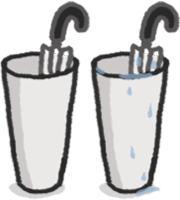
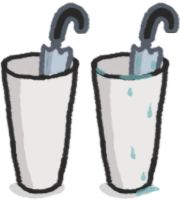
ㅇㅇ
우산색 변경
대화속도 수정
도움말 수정
별 수정
외출 뒤로가기

diff --git a/_Script/TalkEvtOut.cs b/_Script/TalkEvtOut.cs
@@ -78,6 +78,7 @@ public class TalkEvtOut : MonoBehaviour
     // 종료 함수
     void Update()
     {
+        Debug.Log((PlayerPrefs.GetInt("frontpark", 0)));
         //클립초기화
         if(PlayerPrefs.GetInt("frontpark", 0) == 1)
         {
@@ -95,7 +96,19 @@ public class TalkEvtOut : MonoBehaviour
                 exit_int = 1;
                 exitTalkBalln.SetActive(true); //대화창 새로만들기
                 closeTB_exit.SetActive(true);
-                exitText.text = "집으로 돌아갈까..\n(종료는 집에서 가능)";
+
+                if (PlayerPrefs.GetInt("frontpark", 0) == 99)
+                {
+                    exitText.text = "집으로 돌아갈까..\n(종료는 집에서 가능)";
+                }
+                else if (PlayerPrefs.GetInt("frontpark", 0) == 2)
+                {
+                    talkCursor.SetActive(false);
+                   // exitTalkBalln.GetComponent<Image>().sprite = ballnSpr[1];
+                    exitText.text = "(가려면 집으로 돌아가야 할 거 같다.)";
+                }
+
+
             }
             else
             {
@@ -110,7 +123,16 @@ public class TalkEvtOut : MonoBehaviour
         }
         if (cnt_exit == 150)
         {
-            exitText.text = "..음";
+            if (PlayerPrefs.GetInt("frontpark", 0) == 99)
+            {
+                exitText.text = "..음";
+            }
+            else if (PlayerPrefs.GetInt("frontpark", 0) == 2)
+            {
+                talkCursor.SetActive(false);
+                // exitTalkBalln.GetComponent<Image>().sprite = ballnSpr[1];
+                exitText.text = "(..흠)";
+            }
         }
         else if (cnt_exit == 250)
         {

diff --git a/_Script/MainBtnEvt.cs b/_Script/MainBtnEvt.cs
@@ -21,7 +21,7 @@ public class MainBtnEvt : CavasData
     public GameObject GM, GM2,GMtag;
 
     //문장속도
-    float speedF = 0.06f;
+    float speedF = 0.05f;
     public Text tspeed_txt;
     public GameObject speed_obj, speed_toast;
     public GameObject [] speedBtn;
@@ -127,7 +127,7 @@ public class MainBtnEvt : CavasData
 
     // Use this for initialization
     void Start () {
-        speedF = PlayerPrefs.GetFloat("talkspeed", 0.06f);
+        speedF = PlayerPrefs.GetFloat("talkspeed", 0.05f);
         speedBtnCKFunction(PlayerPrefs.GetInt("speedTalkCheck", 0));
 
         if (GM == null)
@@ -462,13 +462,13 @@ public class MainBtnEvt : CavasData
 
     public void TalkSpeedFast()
     {
-        speedF = 0.03f;
+        speedF = 0.02f;
         StartCoroutine("closeToast");
     }
 
     public void TalkSpeedNor()
     {
-        speedF = 0.06f;
+        speedF = 0.05f;
         StartCoroutine("closeToast");
     }
 
@@ -491,12 +491,12 @@ public class MainBtnEvt : CavasData
         PlayerPrefs.SetFloat("talkspeed", speedF);
         PlayerPrefs.Save();
 
-        if (speedF == 0.03f)
+        if (speedF == 0.02f)
         {
             tspeed_txt.text = "대화 속도 '빠름'으로 변경";
             speedBtnCKFunction(3);
         }
-        else if (speedF == 0.06f)
+        else if (speedF == 0.05f)
         {
             tspeed_txt.text = "대화 속도 '보통'으로 변경";
             speedBtn[1].GetComponent<Image>().sprite = speedbtnCK[1];

diff --git a/_Script/TalkEvt.cs b/_Script/TalkEvt.cs
@@ -18,7 +18,7 @@ public class TalkEvt : MonoBehaviour {
     int loveLv = 1; //호감도 단계라고 생각하면 됨
     int countTalkNum;//대화횟수
 
-    float speedF = 0.08f;
+    float speedF = 0.05f;
     int nowArr =0; //현재 줄
     int[] randArr;//난수 필
     int loveExp;//호감도
@@ -696,7 +696,7 @@ public class TalkEvt : MonoBehaviour {
         //아이템대사 출력
         IEnumerator itemTalkRun()
     {
-        speedF = PlayerPrefs.GetFloat("talkspeed", 0);
+        speedF = PlayerPrefs.GetFloat("talkspeed", 0.05f);
         falseObject();
         for (int i = 0; i < testText_cut.Length; i++)
         {

diff --git a/_Script/CavasData.cs b/_Script/CavasData.cs
@@ -19,6 +19,7 @@ public class CavasData : CommonDate {
 				canvasPack_cvs [i].SetActive (false);
 			}
             PlayerPrefs.SetInt("front", 2);
+            PlayerPrefs.SetInt("frontpark", 2);
         } else {
 			for (int i = 3; i < 6; i++) {
 				canvasPack_cvs [i].SetActive (false);
